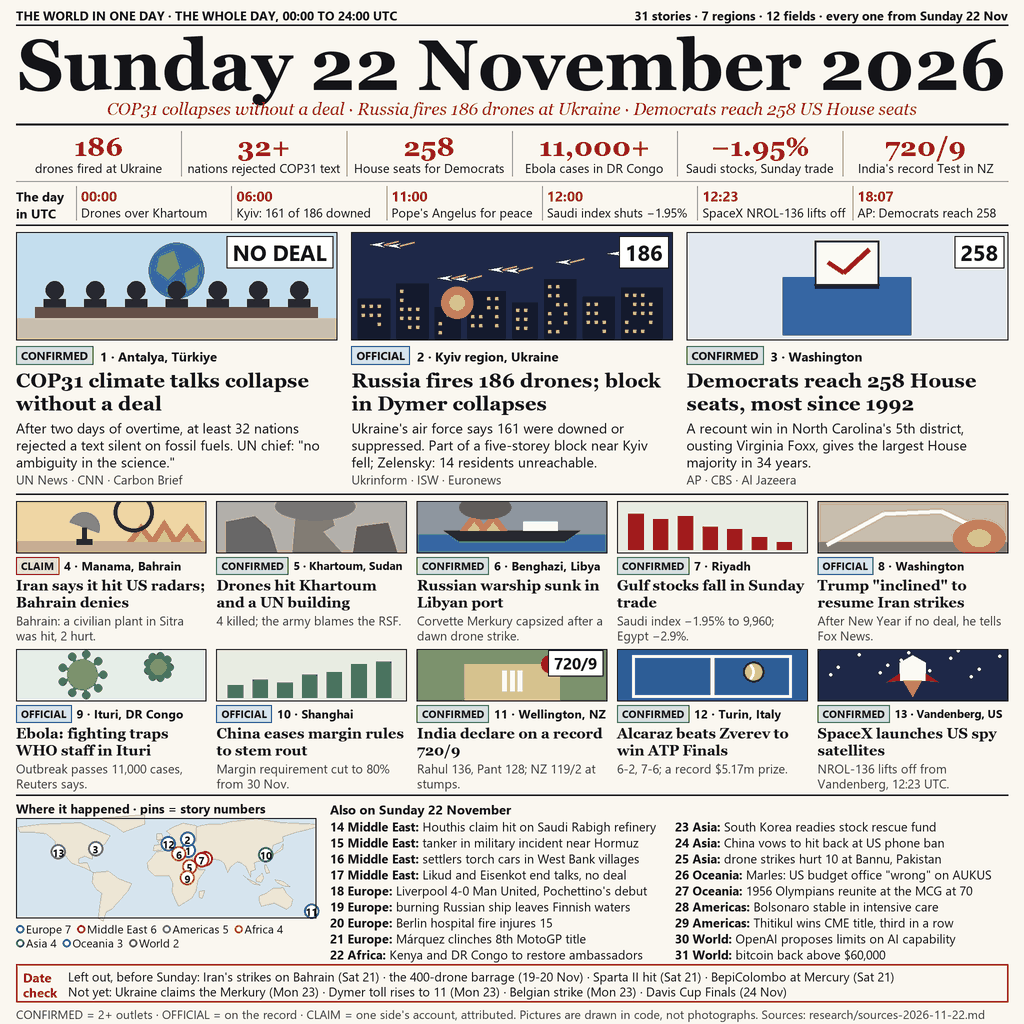
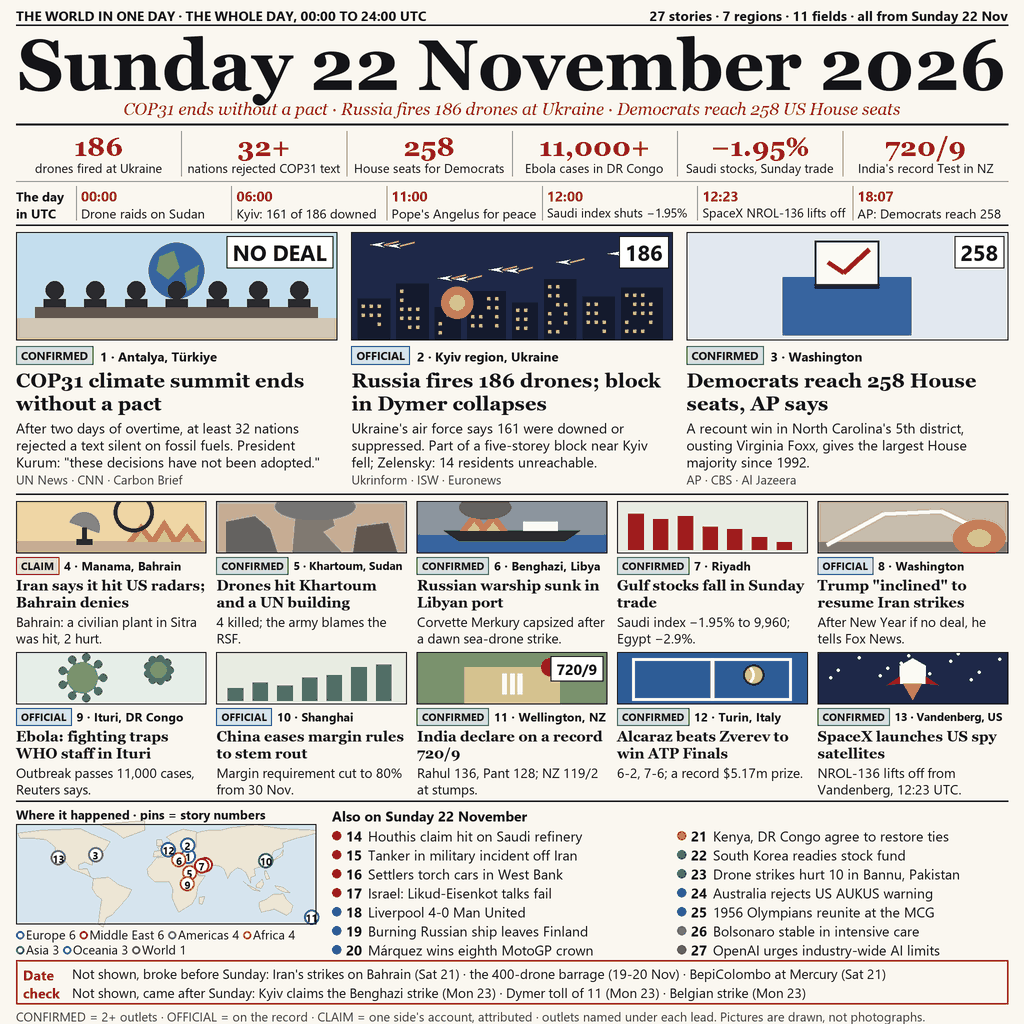
v2: bigger type, 27 stories, attributed COP31 and House leads, clearer date check

diff --git a/art/content.py b/art/content.py
@@ -1,9 +1,9 @@
-"""Every word on the page. Facts and sources: research/sources-2026-11-22.md."""
+"""Every word on the page. Facts and sources: research/sources-2026-11-22.md."""
 
 TOP_LEFT = "THE WORLD IN ONE DAY · THE WHOLE DAY, 00:00 TO 24:00 UTC"
-TOP_RIGHT = "31 stories · 7 regions · 12 fields · every one from Sunday 22 Nov"
+TOP_RIGHT = "27 stories · 7 regions · 11 fields · all from Sunday 22 Nov"
 DATE = "Sunday 22 November 2026"
-SUBLINE = "COP31 collapses without a deal · Russia fires 186 drones at Ukraine · Democrats reach 258 US House seats"
+SUBLINE = "COP31 ends without a pact · Russia fires 186 drones at Ukraine · Democrats reach 258 US House seats"
 
 NUMBERS = [
     ("186", "drones fired at Ukraine"),
@@ -15,7 +15,7 @@ NUMBERS = [
 ]
 
 UTC = [
-    ("00:00", "Drones over Khartoum"),
+    ("00:00", "Drone raids on Sudan"),
     ("06:00", "Kyiv: 161 of 186 downed"),
     ("11:00", "Pope's Angelus for peace"),
     ("12:00", "Saudi index shuts −1.95%"),
@@ -25,16 +25,16 @@ UTC = [
 
 LEADS = [
     dict(icon="summit", badge="NO DEAL", place="Antalya, Türkiye", tag="CONFIRMED",
-         head="COP31 climate talks collapse without a deal",
-         dek="After two days of overtime, at least 32 nations rejected a text silent on fossil fuels. UN chief: \"no ambiguity in the science.\"",
+         head="COP31 climate summit ends without a pact",
+         dek="After two days of overtime, at least 32 nations rejected a text silent on fossil fuels. President Kurum: \"these decisions have not been adopted.\"",
          src="UN News · CNN · Carbon Brief"),
     dict(icon="drones", badge="186", place="Kyiv region, Ukraine", tag="OFFICIAL",
          head="Russia fires 186 drones; block in Dymer collapses",
          dek="Ukraine's air force says 161 were downed or suppressed. Part of a five-storey block near Kyiv fell; Zelensky: 14 residents unreachable.",
          src="Ukrinform · ISW · Euronews"),
     dict(icon="ballot", badge="258", place="Washington", tag="CONFIRMED",
-         head="Democrats reach 258 House seats, most since 1992",
-         dek="A recount win in North Carolina's 5th district, ousting Virginia Foxx, gives the largest House majority in 34 years.",
+         head="Democrats reach 258 House seats, AP says",
+         dek="A recount win in North Carolina's 5th district, ousting Virginia Foxx, gives the largest House majority since 1992.",
          src="AP · CBS · Al Jazeera"),
 ]
 
@@ -47,7 +47,7 @@ TILES = [
          dek="4 killed; the army blames the RSF."),
     dict(icon="ship", badge=None, place="Benghazi, Libya", tag="CONFIRMED",
          head="Russian warship sunk in Libyan port",
-         dek="Corvette Merkury capsized after a dawn drone strike."),
+         dek="Corvette Merkury capsized after a dawn sea-drone strike."),
     dict(icon="chart_down", badge=None, place="Riyadh", tag="CONFIRMED",
          head="Gulf stocks fall in Sunday trade",
          dek="Saudi index −1.95% to 9,960; Egypt −2.9%."),
@@ -73,24 +73,20 @@ TILES = [
 
 ALSO_TITLE = "Also on Sunday 22 November"
 ALSO = [
-    (14, "Middle East", "Houthis claim hit on Saudi Rabigh refinery"),
-    (15, "Middle East", "tanker in military incident near Hormuz"),
-    (16, "Middle East", "settlers torch cars in West Bank villages"),
-    (17, "Middle East", "Likud and Eisenkot end talks, no deal"),
-    (18, "Europe", "Liverpool 4-0 Man United, Pochettino's debut"),
-    (19, "Europe", "burning Russian ship leaves Finnish waters"),
-    (20, "Europe", "Berlin hospital fire injures 15"),
-    (21, "Europe", "Márquez clinches 8th MotoGP title"),
-    (22, "Africa", "Kenya and DR Congo to restore ambassadors"),
-    (23, "Asia", "South Korea readies stock rescue fund"),
-    (24, "Asia", "China vows to hit back at US phone ban"),
-    (25, "Asia", "drone strikes hurt 10 at Bannu, Pakistan"),
-    (26, "Oceania", "Marles: US budget office \"wrong\" on AUKUS"),
-    (27, "Oceania", "1956 Olympians reunite at the MCG at 70"),
-    (28, "Americas", "Bolsonaro stable in intensive care"),
-    (29, "Americas", "Thitikul wins CME title, third in a row"),
-    (30, "World", "OpenAI proposes limits on AI capability"),
-    (31, "World", "bitcoin back above $60,000"),
+    (14, "Middle East", "Houthis claim hit on Saudi refinery"),
+    (15, "Middle East", "Tanker in military incident off Iran"),
+    (16, "Middle East", "Settlers torch cars in West Bank"),
+    (17, "Middle East", "Israel: Likud-Eisenkot talks fail"),
+    (18, "Europe", "Liverpool 4-0 Man United"),
+    (19, "Europe", "Burning Russian ship leaves Finland"),
+    (20, "Europe", "Márquez wins eighth MotoGP crown"),
+    (21, "Africa", "Kenya, DR Congo agree to restore ties"),
+    (22, "Asia", "South Korea readies stock fund"),
+    (23, "Asia", "Drone strikes hurt 10 in Bannu, Pakistan"),
+    (24, "Oceania", "Australia rejects US AUKUS warning"),
+    (25, "Oceania", "1956 Olympians reunite at the MCG"),
+    (26, "Americas", "Bolsonaro stable in intensive care"),
+    (27, "World", "OpenAI urges industry-wide AI limits"),
 ]
 
 PINS = [
@@ -100,12 +96,12 @@ PINS = [
     (11, 174.8, -41.3, "Oceania"), (12, 7.7, 45.1, "Europe"), (13, -120.6, 34.7, "Americas"),
 ]
 
-REGION_COUNTS = [("Europe", 7), ("Middle East", 6), ("Americas", 5), ("Africa", 4),
-                 ("Asia", 4), ("Oceania", 3), ("World", 2)]
+REGION_COUNTS = [("Europe", 6), ("Middle East", 6), ("Americas", 4), ("Africa", 4),
+                 ("Asia", 3), ("Oceania", 3), ("World", 1)]
 
-DATECHECK_OUT = ("Left out, before Sunday: Iran's strikes on Bahrain (Sat 21) · the 400-drone barrage (19-20 Nov) "
-                 "· Sparta II hit (Sat 21) · BepiColombo at Mercury (Sat 21)")
-DATECHECK_NOT_YET = ("Not yet: Ukraine claims the Merkury (Mon 23) · Dymer toll rises to 11 (Mon 23) "
-                     "· Belgian strike (Mon 23) · Davis Cup Finals (24 Nov)")
-LEGEND = ("CONFIRMED = 2+ outlets · OFFICIAL = on the record · CLAIM = one side's account, attributed. "
-          "Pictures are drawn in code, not photographs. Sources: research/sources-2026-11-22.md")
+DATECHECK_OUT = ("Not shown, broke before Sunday: Iran's strikes on Bahrain (Sat 21) · the 400-drone barrage "
+                 "(19-20 Nov) · BepiColombo at Mercury (Sat 21)")
+DATECHECK_NOT_YET = ("Not shown, came after Sunday: Kyiv claims the Benghazi strike (Mon 23) · Dymer toll of 11 (Mon 23) "
+                     "· Belgian strike (Mon 23)")
+LEGEND = ("CONFIRMED = 2+ outlets · OFFICIAL = on the record · CLAIM = one side's account, attributed · "
+          "outlets named under each lead. Pictures are drawn, not photographs.")

diff --git a/art/draw.py b/art/draw.py
@@ -177,9 +177,9 @@ def render(c, out):
     L, R = 16, W - 16
 
     # top line
-    f = F(SANS_B, 12.5)
-    pg.text(L, 7, c.TOP_LEFT, f, INK)
-    pg.text(R, 7, c.TOP_RIGHT, f, INK, anchor="ra")
+    f = F(SANS_B, 13.5)
+    pg.text(L, 6, c.TOP_LEFT, f, INK)
+    pg.text(R, 6, c.TOP_RIGHT, f, INK, anchor="ra")
     pg.hline(L, R, 25, INK, 1.5)
 
     # masthead
@@ -212,7 +212,7 @@ def render(c, out):
     for i, (t, lab) in enumerate(c.UTC):
         cx = x + cw * i
         pg.text(cx + 5, y + 0, t, F(SANS_B, 14), ACCENT)
-        fl = pg.fit(lab, SANS, 12.5, cw - 9, 11)
+        fl = pg.fit(lab, SANS, 13, cw - 9, 11.5)
         pg.text(cx + 5, y + 18, lab, fl, INK)
         pg.vline(cx, y, y + 34)
     pg.hline(L, R, y + 39, INK, 1.5)
@@ -243,7 +243,7 @@ def render(c, out):
     per = (len(c.TILES) + 1) // 2
     gap = 10
     tw = (R - L - (per - 1) * gap) / per
-    th = 142
+    th = 145
     for i, s in enumerate(c.TILES):
         r_, col = divmod(i, per)
         x0 = L + col * (tw + gap)
@@ -251,7 +251,7 @@ def render(c, out):
         ph = 52
         pg.icon(s["icon"], x0, y0, x0 + tw, y0 + ph)
         if s.get("badge"):
-            pg.badge(s["badge"], x0 + tw, y0 - 3, 16)
+            pg.badge(s["badge"], x0 + tw, y0, 15)
         pg.rect(x0, y0, x0 + tw, y0 + ph, outline=INK, width=1)
         yy = y0 + ph + 4
         xx = pg.tag(s["tag"], x0, yy, 10.5)
@@ -259,7 +259,7 @@ def render(c, out):
         pg.text(xx + 5, yy + 0.5, lab, pg.fit(lab, SANS_B, 12, tw - (xx - x0) - 6, 10.5), INK)
         yy += 20
         yy = pg.para(x0, yy, s["head"], F(SERIF_B, 14.5), tw, 17, INK, maxlines=2)
-        yy = pg.para(x0, yy + 1, s["dek"], F(SANS, 12.5), tw, 15, INK2, maxlines=2)
+        yy = pg.para(x0, yy + 1, s["dek"], F(SANS, 13.5), tw, 16.5, INK, maxlines=2)
     y = y + 2 * th + 6 + 4
     pg.hline(L, R, y, INK, 1.5)
 
@@ -274,39 +274,39 @@ def render(c, out):
     pg.rect(L, my0, L + mw, my1, outline=INK, width=1)
     ly = my1 + 3
     lx = L
-    fl = F(SANS, 11.5)
+    fl = F(SANS, 12.5)
     for j, (reg, cnt) in enumerate(c.REGION_COUNTS):
         if j == 4:
-            lx, ly = L, ly + 14
+            lx, ly = L, ly + 15
         s = "%s %d" % (reg, cnt)
         pg.d.ellipse([lx * K, (ly + 4) * K, (lx + 8) * K, (ly + 12) * K], outline=REGCOL[reg], width=int(2 * K), fill=(255, 255, 255))
-        pg.text(lx + 10, ly, s, fl, INK)
-        lx += pg.tw(s, fl) + 16
+        pg.text(lx + 10, ly - 1, s, fl, INK)
+        lx += pg.tw(s, fl) + 14
 
-    ax = L + mw + 14
-    pg.text(ax, y, c.ALSO_TITLE, F(SANS_B, 13), INK)
-    aw = (R - ax - 12) / 2
-    fb = F(SANS_B, 12.5)
+    ax = L + mw + 16
+    pg.text(ax, y, c.ALSO_TITLE, F(SANS_B, 14), INK)
+    aw = (R - ax - 14) / 2
+    fn, ft = F(SANS_B, 14), F(SANS, 14)
     for i, (num, reg, txt) in enumerate(c.ALSO):
         col, row = divmod(i, rows)
-        xx = ax + col * (aw + 12)
-        yy = y + 18 + row * 16
-        lead = "%d %s: " % (num, reg)
-        pg.text(xx, yy, lead, fb, INK)
-        rest_w = aw - pg.tw(lead, fb)
-        pg.text(xx + pg.tw(lead, fb), yy, txt, pg.fit(txt, SANS, 12.5, rest_w, 11.5), INK)
-    y2 = max(ly + 17, y + 18 + rows * 16 + 2)
+        xx = ax + col * (aw + 14)
+        yy = y + 20 + row * 19
+        pg.d.ellipse([xx * K, (yy + 5) * K, (xx + 9) * K, (yy + 14) * K], fill=REGCOL[reg])
+        pg.text(xx + 14, yy, str(num), fn, INK)
+        tx0 = xx + 14 + pg.tw("00", fn) + 6
+        pg.text(tx0, yy, txt, pg.fit(txt, SANS, 14, xx + aw - tx0, 13), INK)
+    y2 = max(ly + 17, y + 20 + rows * 19 + 1)
     # date check box
-    pg.rect(L, y2, R, y2 + 38, outline=ACCENT, width=1.5)
-    pg.text(L + 7, y2 + 4, "Date", F(SANS_B, 13), ACCENT)
-    pg.text(L + 7, y2 + 19, "check", F(SANS_B, 13), ACCENT)
-    tx = L + 52
-    pg.text(tx, y2 + 4, c.DATECHECK_OUT, pg.fit(c.DATECHECK_OUT, SANS, 12.5, R - tx - 6, 11), INK)
-    pg.text(tx, y2 + 19, c.DATECHECK_NOT_YET, pg.fit(c.DATECHECK_NOT_YET, SANS, 12.5, R - tx - 6, 11), INK)
+    pg.rect(L, y2, R, y2 + 44, outline=ACCENT, width=1.5)
+    pg.text(L + 7, y2 + 5, "Date", F(SANS_B, 14), ACCENT)
+    pg.text(L + 7, y2 + 23, "check", F(SANS_B, 14), ACCENT)
+    tx = L + 56
+    pg.text(tx, y2 + 4, c.DATECHECK_OUT, pg.fit(c.DATECHECK_OUT, SANS, 13.5, R - tx - 6, 12), INK)
+    pg.text(tx, y2 + 23, c.DATECHECK_NOT_YET, pg.fit(c.DATECHECK_NOT_YET, SANS, 13.5, R - tx - 6, 12), INK)
     # footer
-    pg.text(L, y2 + 42, c.LEGEND, pg.fit(c.LEGEND, SANS, 12, R - L, 10.5), INK2)
-    if y2 + 58 > H:
-        raise ValueError("page overflows: %d" % (y2 + 58))
+    pg.text(L, y2 + 48, c.LEGEND, pg.fit(c.LEGEND, SANS, 12.5, R - L, 11), INK2)
+    if y2 + 64 > H:
+        raise ValueError("page overflows: %d" % (y2 + 64))
 
     small = pg.im.resize((W, H), Image.LANCZOS)
     pal = small.quantize(colors=getattr(c, "COLORS", 96), method=Image.MEDIANCUT, dither=Image.NONE)
